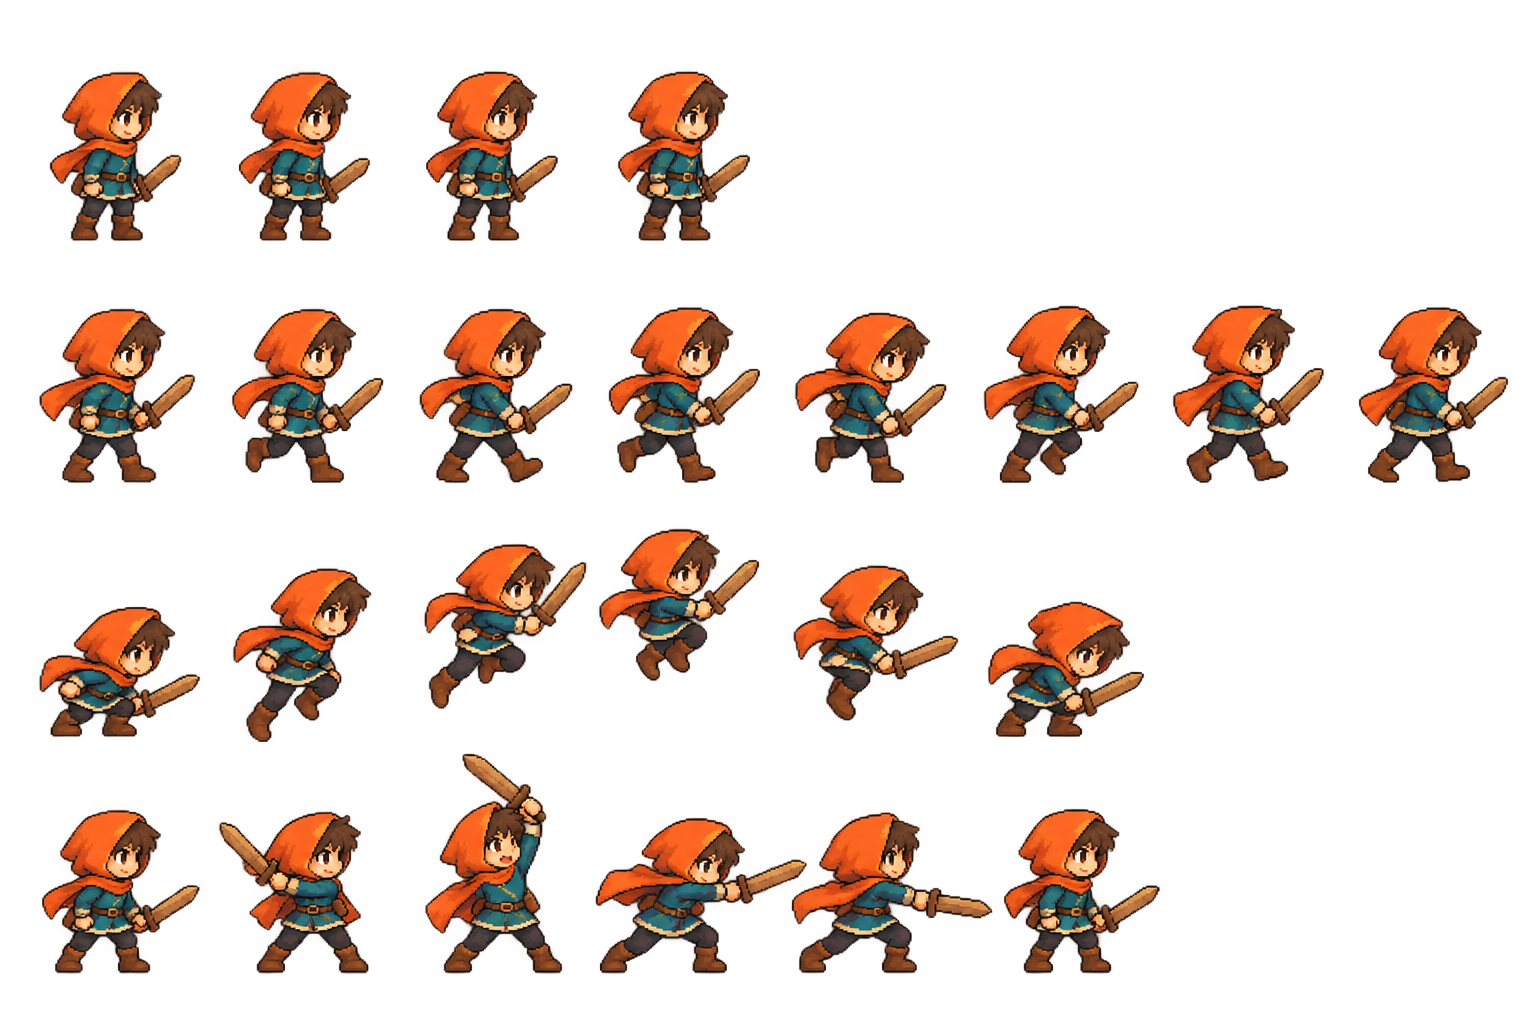
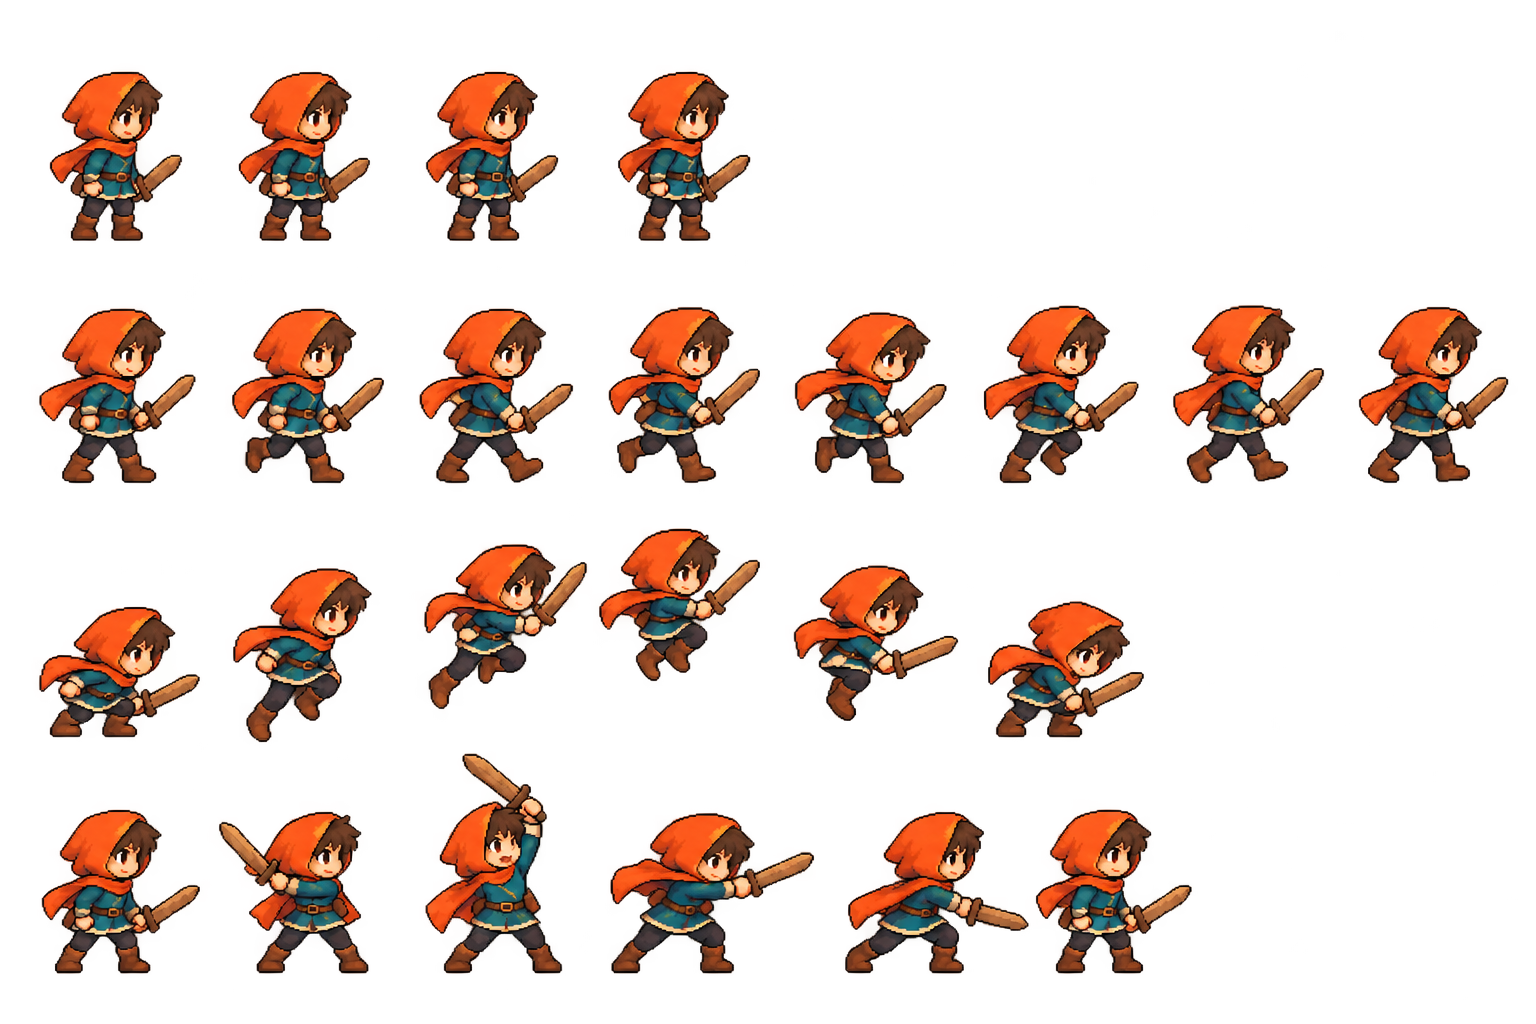
fix(LEC08): 새 공격 이미지 간격과 프레임 좌표를 맞춰 이웃 그림 잘림 방지

diff --git a/Labs/LEC08_Animation/animation_viewer.py b/Labs/LEC08_Animation/animation_viewer.py
@@ -13,21 +13,21 @@ PAUSE_SECONDS = 1.0
 # 대기 4개 / 걷기 8개 / 점프 6개 / 공격 6개
 animations = [
     ("Idle", 6, [
-        (47, 69, 137, 174), (236, 69, 137, 174), (424, 69, 136, 174),
+        (47, 69, 138, 174), (236, 69, 136, 174), (423, 69, 138, 174),
         (616, 69, 137, 174),
     ]),
     ("Walk", 10, [
-        (36, 306, 162, 179), (230, 306, 156, 179), (417, 306, 158, 180),
-        (606, 304, 156, 182), (792, 310, 157, 175), (981, 303, 160, 183),
-        (1170, 303, 157, 182), (1356, 304, 155, 181),
+        (37, 306, 161, 180), (230, 306, 156, 180), (417, 306, 159, 180),
+        (606, 305, 156, 180), (792, 310, 157, 176), (981, 303, 160, 183),
+        (1171, 303, 156, 183), (1356, 304, 155, 181),
     ]),
     ("Jump", 8, [
-        (37, 604, 166, 135), (230, 566, 144, 179), (422, 542, 168, 169),
-        (596, 526, 166, 157), (791, 563, 170, 160), (985, 599, 161, 140),
+        (37, 604, 165, 136), (231, 566, 143, 179), (422, 542, 168, 170),
+        (597, 526, 165, 158), (791, 563, 170, 160), (986, 599, 160, 141),
     ]),
     ("Attack", 10, [
-        (40, 807, 162, 169), (216, 809, 155, 167), (423, 751, 142, 225),
-        (593, 815, 216, 161), (789, 810, 206, 166), (1001, 806, 161, 170),
+        (39, 807, 163, 169), (217, 809, 154, 167), (423, 751, 142, 225),
+        (608, 811, 208, 165), (843, 809, 188, 167), (1033, 807, 161, 169),
     ]),
 ]
 
